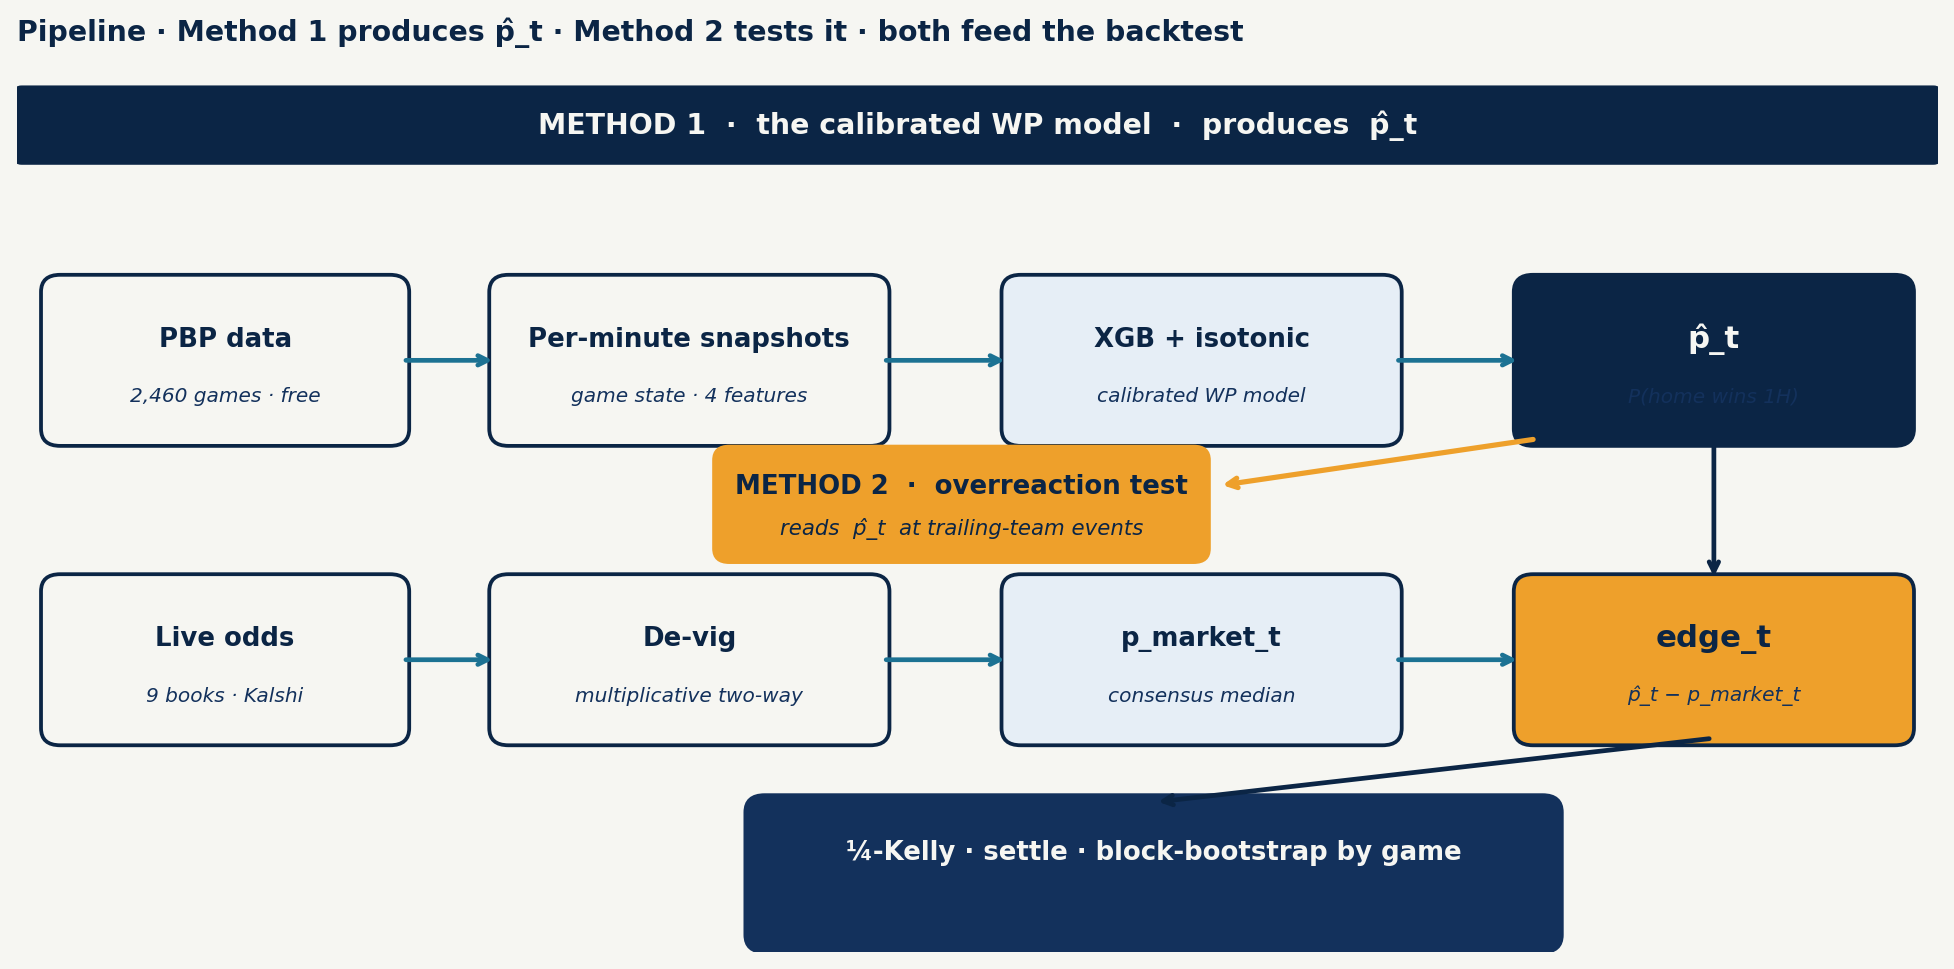
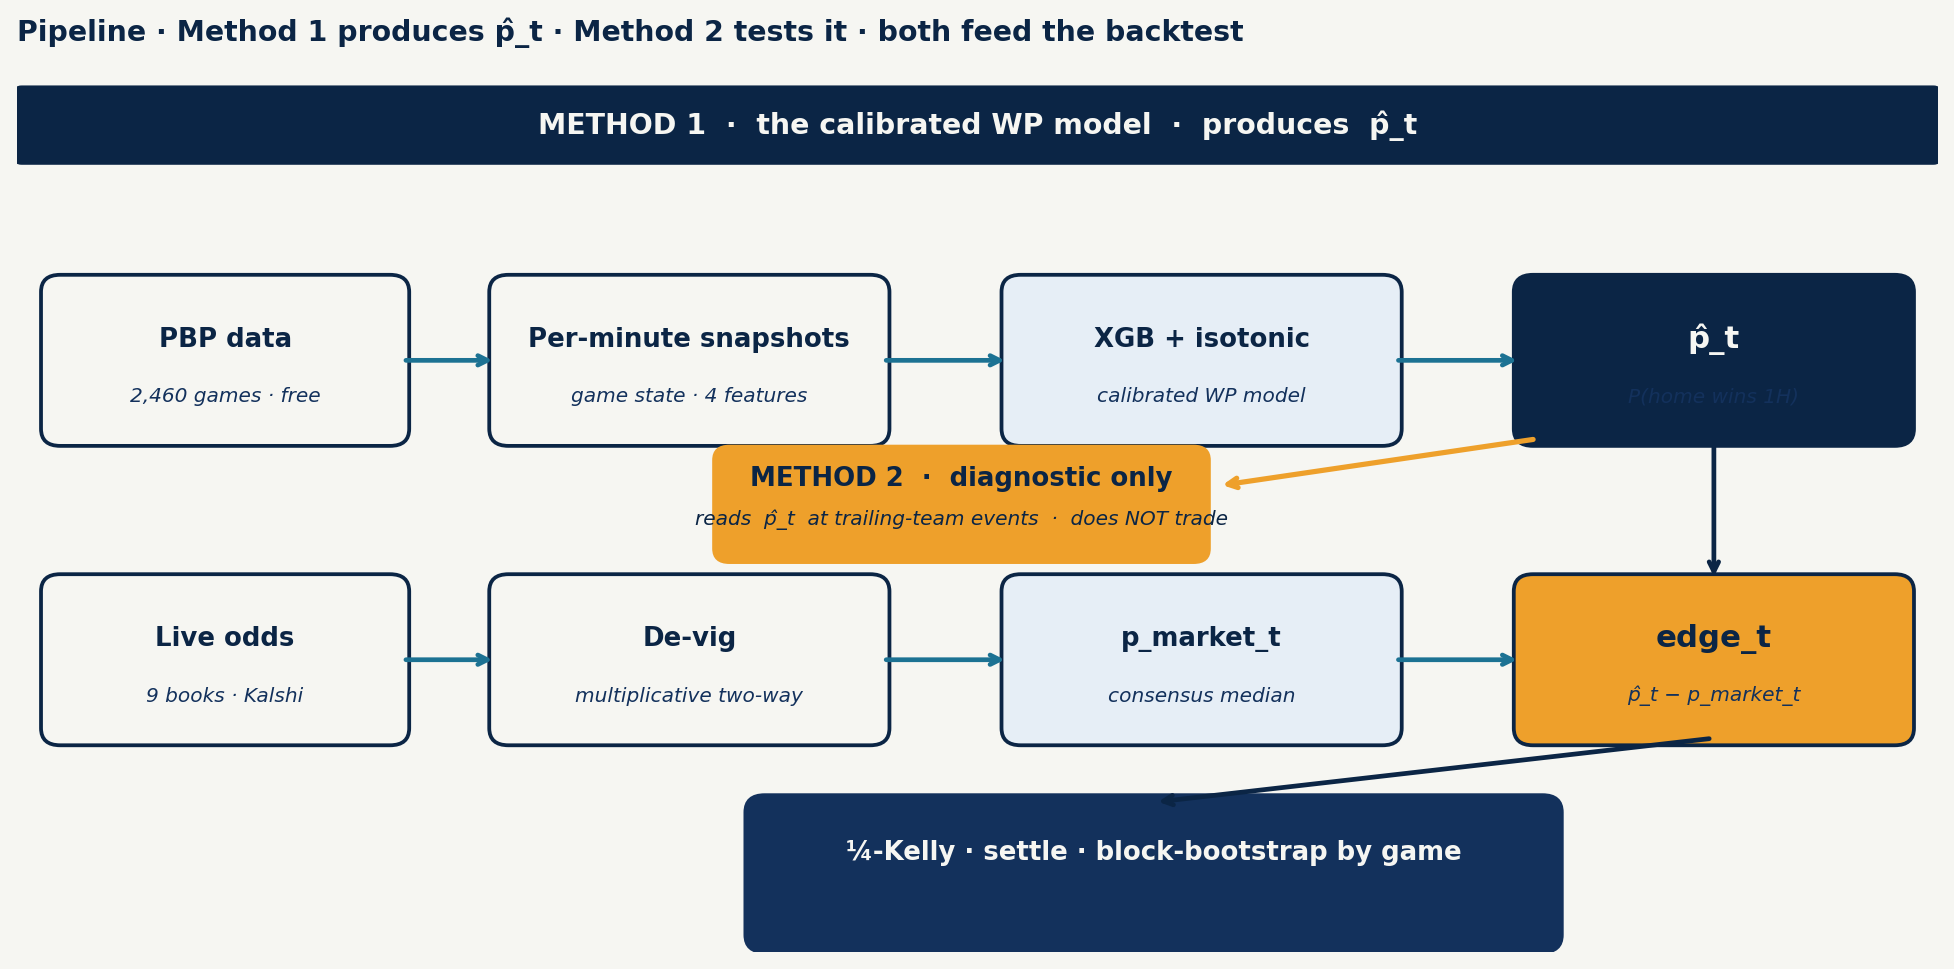
Reframe Method 2 honestly: it's a finding, not a trader
Method 2 currently provides statistical proof the bias exists but never
gated any trades in the backtest. Calling this out throughout:

Slide 5 (Pipeline picture):
  Method 2 callout: 'overreaction test · reads p_hat_t at trailing-team events'
  -> 'METHOD 2 · diagnostic only · reads p_hat_t at trailing-team events · does NOT trade'

Slide 8 (Method 2 · how it works) subtitle:
  'The overreaction test · runs ON TOP OF Method 1'
  -> 'The statistical test · measures bias · does not gate trades in this work'

Slide 10 (Synthesis) — full rewrite:
  Title: 'How we use both methods' -> 'Method 1 vs Method 2 · the asymmetry'
  Subtitle: 'Method 1 drives every trade · Method 2 proved the bias but didn't trade'
  LEFT (NAVY): METHOD 1 · the TRADING signal — '100% of bets, 100% of P&L'
  RIGHT (ACCENT): METHOD 2 · the FINDING (not a trader) — '0 bets, 0 P&L'
  BOTTOM (ACCENT): 'Finding · Method 2 was a diagnostic, not a trader.
                   Wiring it in is the natural next step.'

Slide 15 (Limitations) — Method 2 as a trader added as the #1 limitation:
  'Method 2 didn't trade — proved the bias but didn't gate any bets.
   Natural next step: filter Method 1's edges to Method 2's event windows.'

Speaker script (slides 10 + 15) updated to call out the asymmetry explicitly.

Changed region(s): [[0.3434, 0.4644, 0.6244, 0.5573]]

diff --git a/slides/build.js b/slides/build.js
@@ -330,7 +330,7 @@ builders.push(s => {
 
 // ─── 8b. METHOD 2 · how it works ─────────────────────────────────────────
 builders.push(s => {
-  header(s, "Method 2 · how it works", "The overreaction test  ·  runs ON TOP OF Method 1");
+  header(s, "Method 2 · how it works", "The statistical test  ·  measures bias · does not gate trades in this work");
 
   // INPUTS box
   s.addShape("roundRect", { x:0.55, y:1.6, w:3.8, h:3.9,
@@ -446,84 +446,94 @@ builders.push(s => {
     { x:8.15, y:5.65, w:4.5, h:1.2, fontFace:F.title, fontSize:16, italic:true, bold:true, color:C.NAVY });
 });
 
-// ─── 9. SYNTHESIS — how the two methods stack ────────────────────────────
+// ─── 10. METHOD 1 vs METHOD 2 — the asymmetry (honest about roles) ──────
 builders.push(s => {
-  header(s, "How we use both methods",
-    "They don't compete · Method 2 STACKS on top of Method 1");
+  header(s, "Method 1 vs Method 2 · the asymmetry",
+    "Method 1 drives every trade · Method 2 proved the bias but didn't trade");
 
-  // ── Method 1 box (LEFT) ──────────────────────────────────────────────
+  // ── Method 1 box (LEFT) — emphasized = the active trader ────────────
   s.addShape("roundRect", { x:0.55, y:1.55, w:5.85, h:4.5,
-    fill:{color:C.CREAM}, line:{color:C.NAVY, width:1.6}, rectRadius:0.1 });
+    fill:{color:C.CREAM}, line:{color:C.NAVY, width:1.8}, rectRadius:0.1 });
   s.addShape("rect", { x:0.55, y:1.55, w:5.85, h:0.55,
     fill:{color:C.NAVY}, line:{color:C.NAVY, width:0} });
-  s.addText("METHOD 1 · the calibrated WP model",
-    { x:0.55, y:1.55, w:5.85, h:0.55, fontFace:F.body, fontSize:13,
+  s.addText("METHOD 1 · the TRADING signal",
+    { x:0.55, y:1.55, w:5.85, h:0.55, fontFace:F.body, fontSize:14,
       bold:true, color:C.CREAM, align:"center", valign:"middle" });
+  s.addText("(active component)",
+    { x:0.55, y:2.18, w:5.85, h:0.3, fontFace:F.body, fontSize:11,
+      italic:true, color:C.DEEP, align:"center" });
   s.addText([
-    { text:"INPUTS:  ", options:{ bold:true, color:C.DEEP }},
-    { text:"4 game-state features (min, score-diff, run, period)" },
-  ], { x:0.75, y:2.25, w:5.5, h:0.55, fontFace:F.body, fontSize:13, color:C.INK });
+    { text:"•  computes ", options:{} },
+    { text:"edge_t  =  p̂_t − p_market_t", options:{ fontFace:F.code, color:C.NAVY }},
+  ], { x:0.75, y:2.5, w:5.5, h:0.45, fontFace:F.body, fontSize:13, color:C.INK });
   s.addText([
-    { text:"OUTPUTS:  ", options:{ bold:true, color:C.DEEP }},
-    { text:"p̂_t  =  P(home wins 1H), calibrated 0–1", options:{ fontFace:F.code }},
-  ], { x:0.75, y:2.85, w:5.5, h:0.55, fontFace:F.body, fontSize:13, color:C.INK });
+    { text:"•  ", options:{} },
+    { text:"|edge| > threshold  →  BET", options:{ fontFace:F.code, bold:true, color:C.NAVY }},
+  ], { x:0.75, y:2.95, w:5.5, h:0.45, fontFace:F.body, fontSize:13, color:C.INK });
   s.addText([
-    { text:"ANSWERS:  ", options:{ bold:true, color:C.DEEP }},
-    { text:"\"Is the model accurate?\"" },
-  ], { x:0.75, y:3.45, w:5.5, h:0.5, fontFace:F.body, fontSize:13, color:C.INK });
-  s.addShape("rect", { x:0.75, y:4.1, w:5.5, h:0.04, fill:{color:C.SKY}, line:{color:C.SKY,width:0} });
+    { text:"•  sign of edge → which side", options:{} },
+  ], { x:0.75, y:3.4, w:5.5, h:0.45, fontFace:F.body, fontSize:13, color:C.INK });
   s.addText([
-    { text:"FINDING 1:  ", options:{ bold:true, color:C.NAVY }},
-    { text:"✅  ", options:{ color:C.ACCENT, bold:true, fontSize:16 }},
-    { text:"the model is calibrated", options:{ bold:true, color:C.NAVY }},
-  ], { x:0.75, y:4.3, w:5.5, h:0.5, fontFace:F.body, fontSize:14 });
-  s.addText("(numbers on the Finding 1 slide)",
-    { x:0.75, y:4.75, w:5.5, h:0.4, fontFace:F.body, fontSize:11, italic:true, color:C.DEEP });
+    { text:"•  p̂_t → Kelly stake size", options:{} },
+  ], { x:0.75, y:3.85, w:5.5, h:0.45, fontFace:F.body, fontSize:13, color:C.INK });
+  s.addShape("rect", { x:0.75, y:4.4, w:5.5, h:0.04, fill:{color:C.SKY}, line:{color:C.SKY,width:0} });
+  s.addText([
+    { text:"100% of bets, 100% of P&L  ", options:{ bold:true, color:C.NAVY }},
+    { text:"in the backtest", options:{ italic:true, color:C.DEEP }},
+  ], { x:0.75, y:4.55, w:5.5, h:0.5, fontFace:F.body, fontSize:13 });
+  s.addText([
+    { text:"Tested on:  ", options:{ bold:true, color:C.DEEP }},
+    { text:"Game 5 (sportsbook)  +  Kalshi pool", options:{ italic:true }},
+  ], { x:0.75, y:5.1, w:5.5, h:0.5, fontFace:F.body, fontSize:11, color:C.INK });
 
-  // arrow connecting Method 1 → Method 2
-  s.addShape("rightArrow", { x:6.5, y:3.45, w:0.7, h:0.6,
-    fill:{color:C.ACCENT}, line:{color:C.ACCENT, width:0} });
-  s.addText("feeds p̂_t into", { x:6.3, y:4.1, w:1.1, h:0.3,
-    fontFace:F.body, fontSize:9, italic:true, color:C.DEEP, align:"center" });
+  // ── separator vs/asymmetry ──────────────────────────────────────────
+  s.addText("vs", { x:6.4, y:3.6, w:0.5, h:0.4, fontFace:F.title, fontSize:18,
+    italic:true, bold:true, color:C.SKY, align:"center" });
 
-  // ── Method 2 box (RIGHT) ─────────────────────────────────────────────
-  s.addShape("roundRect", { x:7.3, y:1.55, w:5.55, h:4.5,
+  // ── Method 2 box (RIGHT) — visibly demoted = diagnostic / finding ───
+  s.addShape("roundRect", { x:6.95, y:1.55, w:5.9, h:4.5,
     fill:{color:C.CREAM}, line:{color:C.ACCENT, width:1.6}, rectRadius:0.1 });
-  s.addShape("rect", { x:7.3, y:1.55, w:5.55, h:0.55,
-    fill:{color:C.NAVY}, line:{color:C.NAVY, width:0} });
-  s.addText("METHOD 2 · the overreaction test",
-    { x:7.3, y:1.55, w:5.55, h:0.55, fontFace:F.body, fontSize:13,
+  s.addShape("rect", { x:6.95, y:1.55, w:5.9, h:0.55,
+    fill:{color:C.DEEP}, line:{color:C.DEEP, width:0} });
+  s.addText("METHOD 2 · the FINDING (not a trader)",
+    { x:6.95, y:1.55, w:5.9, h:0.55, fontFace:F.body, fontSize:14,
       bold:true, color:C.CREAM, align:"center", valign:"middle" });
+  s.addText("(diagnostic only · footnote)",
+    { x:6.95, y:2.18, w:5.9, h:0.3, fontFace:F.body, fontSize:11,
+      italic:true, color:C.DEEP, align:"center" });
   s.addText([
-    { text:"INPUTS:  ", options:{ bold:true, color:C.DEEP }},
-    { text:"p̂_t from Method 1, at trailing-team scoring events", options:{ fontFace:F.body }},
-  ], { x:7.5, y:2.25, w:5.2, h:0.55, fontFace:F.body, fontSize:13, color:C.INK });
+    { text:"•  measures ", options:{} },
+    { text:"Δp̂(60s)", options:{ fontFace:F.code, color:C.NAVY }},
+    { text:" at trailing-team events", options:{} },
+  ], { x:7.15, y:2.5, w:5.55, h:0.45, fontFace:F.body, fontSize:13, color:C.INK });
+  s.addText("•  block-bootstrap by game → CI, p-value",
+    { x:7.15, y:2.95, w:5.55, h:0.45, fontFace:F.body, fontSize:13, color:C.INK });
   s.addText([
-    { text:"OUTPUTS:  ", options:{ bold:true, color:C.DEEP }},
-    { text:"Δp̂_scorer(t)  =  p̂(t+60) − p̂(t)", options:{ fontFace:F.code }},
-  ], { x:7.5, y:2.85, w:5.2, h:0.55, fontFace:F.body, fontSize:13, color:C.INK });
+    { text:"•  ", options:{} },
+    { text:"output is a NUMBER + p-value", options:{ bold:true, color:C.NAVY }},
+    { text:",", options:{} },
+  ], { x:7.15, y:3.4, w:5.55, h:0.45, fontFace:F.body, fontSize:13, color:C.INK });
+  s.addText("   not a bet decision",
+    { x:7.15, y:3.85, w:5.55, h:0.45, fontFace:F.body, fontSize:13, italic:true, color:C.DEEP });
+  s.addShape("rect", { x:7.15, y:4.4, w:5.55, h:0.04, fill:{color:C.SKY}, line:{color:C.SKY,width:0} });
   s.addText([
-    { text:"ANSWERS:  ", options:{ bold:true, color:C.DEEP }},
-    { text:"\"Does the market overshoot p̂_t in event windows?\"" },
-  ], { x:7.5, y:3.45, w:5.2, h:0.65, fontFace:F.body, fontSize:13, color:C.INK });
-  s.addShape("rect", { x:7.5, y:4.1, w:5.2, h:0.04, fill:{color:C.SKY}, line:{color:C.SKY,width:0} });
+    { text:"0 bets, 0 P&L  ", options:{ bold:true, color:C.ACCENT }},
+    { text:"in the backtest", options:{ italic:true, color:C.DEEP }},
+  ], { x:7.15, y:4.55, w:5.55, h:0.5, fontFace:F.body, fontSize:13 });
   s.addText([
-    { text:"FINDING 2:  ", options:{ bold:true, color:C.NAVY }},
-    { text:"✅  ", options:{ color:C.ACCENT, bold:true, fontSize:16 }},
-    { text:"the market overshoots p̂_t", options:{ bold:true, color:C.NAVY }},
-  ], { x:7.5, y:4.3, w:5.2, h:0.5, fontFace:F.body, fontSize:14 });
-  s.addText("(numbers on the Finding 2 slide)",
-    { x:7.5, y:4.75, w:5.2, h:0.4, fontFace:F.body, fontSize:11, italic:true, color:C.DEEP });
+    { text:"Output:  ", options:{ bold:true, color:C.DEEP }},
+    { text:"a statistical finding (Finding 2) — proof the bias exists", options:{ italic:true }},
+  ], { x:7.15, y:5.1, w:5.55, h:0.55, fontFace:F.body, fontSize:11, color:C.INK });
 
-  // ── synthesis line ───────────────────────────────────────────────────
+  // ── bottom honest-acknowledgement bar (this IS the finding) ──────────
   s.addShape("roundRect", { x:0.55, y:6.2, w:12.3, h:0.95,
-    fill:{color:C.NAVY}, line:{color:C.NAVY, width:0}, rectRadius:0.08 });
+    fill:{color:C.ACCENT}, line:{color:C.ACCENT, width:0}, rectRadius:0.08 });
   s.addText([
-    { text:"Both findings pass.  ", options:{ bold:true, color:C.ACCENT }},
-    { text:"Next: does this exploitable bias actually survive the vig on real markets?  →  ", options:{ color:C.CREAM }},
-    { text:"backtest", options:{ italic:true, bold:true, color:C.ACCENT }},
-  ], { x:0.85, y:6.2, w:11.7, h:0.95, fontFace:F.title, fontSize:17,
-       color:C.CREAM, align:"center", valign:"middle" });
+    { text:"Finding · ", options:{ bold:true, color:C.NAVY }},
+    { text:"Method 2 was a diagnostic, not a trader.  Wiring it into the trade decision (the targeted strategy) is the natural next step.",
+      options:{ color:C.NAVY }},
+  ], { x:0.85, y:6.2, w:11.7, h:0.95, fontFace:F.title, fontSize:16,
+       italic:true, align:"center", valign:"middle" });
 });
 
 // ─── 10. BACKTEST ENGINE + FORMULAS ──────────────────────────────────────
@@ -625,16 +635,17 @@ builders.push(s => {
 builders.push(s => {
   header(s, "Limitations & future work", "What we'd do next");
   const items = [
-    ["Sample size",            "Powered backtest needs ~1,000 liquid-market games. Two paths: paid the-odds-api historical (~$59, one month) or playoff capture (free, accumulating)."],
-    ["Horizon",                "V2 is 1st-half winner; live demo extended to full-game via parallel model (Brier 0.207). Snapshots are 1H-only — 2nd-half coverage requires rebuilding."],
+    ["Method 2 didn't trade",  "Method 2 was a statistical diagnostic — proved the bias but did not gate any trades in the backtest. Natural next step: filter Method 1's edges to Method 2's event windows."],
+    ["Sample size",            "Powered backtest needs ~1,000 liquid-market games. Paid the-odds-api historical (~$59, one month) or playoff capture (free, accumulating)."],
+    ["Horizon",                "Model is 1st-half-only; live demo extended to full-game via parallel model. 2nd-half coverage requires rebuilding snapshots."],
     ["Market reactivity",      "Real deployment would face adverse selection + sportsbook limits. Kalshi (peer-to-peer) sidesteps the account-limit issue."],
-    ["Variants V1/V3/V4/V6",   "Architecturally ready in the shared eval harness; need multi-venue in-play history to fit & evaluate."],
+    ["Other 4 planned methods", "Architecturally ready in the shared eval harness; need multi-venue in-play history to fit & evaluate."],
   ];
-  let y = 1.65;
+  let y = 1.6;
   items.forEach(([h, body]) => {
-    s.addText(h, { x:0.55, y, w:3.2, h:0.5, fontFace:F.title, fontSize:16, bold:true, color:C.NAVY });
-    s.addText(body, { x:3.85, y, w:9.0, h:1.1, fontFace:F.body, fontSize:14, color:C.INK });
-    y += 1.25;
+    s.addText(h, { x:0.55, y, w:3.2, h:0.5, fontFace:F.title, fontSize:15, bold:true, color:C.NAVY });
+    s.addText(body, { x:3.85, y, w:9.0, h:1.0, fontFace:F.body, fontSize:13, color:C.INK });
+    y += 1.05;
   });
 });
 

diff --git a/scripts/generate_slide_figures.py b/scripts/generate_slide_figures.py
@@ -207,10 +207,10 @@ def make_pipeline():
     m2 = FancyBboxPatch((4.4, 2.78), 3.0, 0.72,
                         boxstyle="round,pad=0.05,rounding_size=0.1",
                         fc=ACCENT, ec=ACCENT); ax.add_patch(m2)
-    ax.text(5.9, 3.27, "METHOD 2  ·  overreaction test",
+    ax.text(5.9, 3.32, "METHOD 2  ·  diagnostic only",
             ha="center", va="center", fontsize=11, fontweight="bold", color=NAVY)
-    ax.text(5.9, 2.97, "reads  p̂_t  at trailing-team events", ha="center", va="center",
-            fontsize=9, color=NAVY, style="italic")
+    ax.text(5.9, 3.04, "reads  p̂_t  at trailing-team events  ·  does NOT trade",
+            ha="center", va="center", fontsize=8.5, color=NAVY, style="italic")
     # arrow from p̂_t down-left to Method 2 box
     arrow(9.5, 3.6, 7.5, 3.27, color=ACCENT, lw=2.2)
 

diff --git a/slides/speaker_script.md b/slides/speaker_script.md
@@ -67,13 +67,15 @@ Pair this with `slides/final_deck.pptx` (16 slides, ~10 min). Sections:
 > "Both pre-registered tests pass on the held-out season. The model says: *a trailing team's basket genuinely does move the structural fair value in their favor.*"
 > "Which sets up the behavioral question: **does the market shift by more than this?** That's the mispricing — when the crowd overshoots what the fundamentals say."
 
-### Slide 10 — How we use both methods  (45 sec)
-> "Before the backtest, the synthesis. Method 1 and Method 2 don't compete — Method 2 literally **runs on top of** Method 1."
-> *(point at the left box)*
-> "Method 1 takes game state in, outputs the calibrated probability `p̂_t`, answers *'is the model accurate?'* — **Finding 1 confirmed it's calibrated**."
-> *(point at the right box)*
-> "Method 2 takes `p̂_t` *as input*, outputs the structural shift, answers *'does the market overshoot p̂_t in event windows?'* — **Finding 2 confirmed the bias is real**."
-> "Both detection findings pass. That sets up the next question: **does this exploitable bias actually survive the vig on real markets?** Which is the backtest."
+### Slide 10 — Method 1 vs Method 2 · the asymmetry  (50 sec)
+> "Before the backtest, an honest framing. **Method 1 and Method 2 are not co-equal.**"
+> *(point at the left, NAVY box)*
+> "**Method 1 is the trading signal.** It computes `edge_t`, gates every bet on the threshold, picks the side, sizes by Kelly. **One hundred percent of bets and P&L come from Method 1.**"
+> *(point at the right, ACCENT box)*
+> "**Method 2 is the finding — not a trader.** It outputs a number and a p-value, confirms the bias exists. **Zero bets, zero P&L** in our backtest."
+> *(point at the bottom orange bar)*
+> "And that itself is a finding: Method 2 was a diagnostic, not a trader. Wiring it into the trade decision — the targeted strategy — is the natural next step."
+> "Now to the backtest, which is entirely Method 1."
 
 ### Slide 11 — Backtest engine  (60 sec)
 > "Before we trust any P&L number, the engine has to be honest. Here are the three equations: `edge`, multiplicative two-way `de-vig`, and the Kelly fraction with `b` = decimal odds minus 1."
@@ -98,8 +100,9 @@ Pair this with `slides/final_deck.pptx` (16 slides, ~10 min). Sections:
 > "The 'aggregate' variant from the earlier table — number three — is the literal Halawi analog: `p̂_aggregate = w·p_model + (1−w)·p_market_devig`, weight chosen by validation Brier. The aggregate's Brier is bounded by the minimum of the components."
 > "Reframing: the model's job isn't to *beat* the market everywhere. It's to **complement** the market in the specific situations — (comeback FGs, salience 3PTs) — where the crowd's bias is biggest."
 
-### Slide 15 — Limitations & future  (30 sec)
-> "Limitations, briefly: sample size — we'd want roughly 1,000 liquid-market games for a powered backtest. Horizon — the model is 1st-half-only. Reactivity — sportsbooks limit winners; Kalshi as peer-to-peer sidesteps that. And the four blocked variants from earlier are architecturally ready but need multi-venue history."
+### Slide 15 — Limitations & future  (40 sec)
+> "Limitations, briefly. **Top of the list — Method 2 didn't trade.** It proved the bias exists but never gated a bet. Wiring it into the strategy is the natural next step."
+> "Sample size — we'd want roughly a thousand liquid-market games. Horizon — the model is 1st-half-only. Reactivity — sportsbooks limit winners; Kalshi as peer-to-peer sidesteps that. And the four blocked methods from earlier are architecturally ready but need multi-venue history."
 
 ### Slide 16 — Verdict  (45 sec)
 > "Two questions, answered directly."